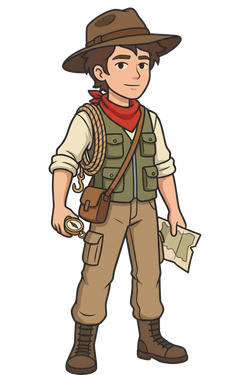
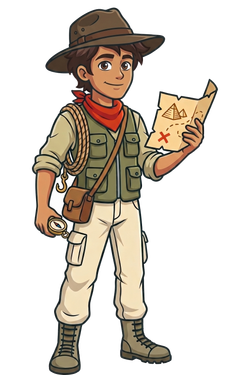
fix(art): the explorer's portraits are the original artwork, so he matches his own walk sprites
Claude-Session: https://claude.ai/code/session_012xEDDaoPZfWQpQUSbuj7W8

diff --git a/scripts/repaintPrompt.ts b/scripts/repaintPrompt.ts
@@ -34,6 +34,10 @@ type Entry = {
   /** Where the finished file goes, and what turns the download into it. */
   out: string
   importedBy: string
+  /** Already on disk. Off the owed list, still fetchable by key — a landed file can need rolling again. */
+  drawn?: boolean
+  /** The generator return this was imported from, kept because it cannot be generated again. */
+  master?: string
 }
 
 /** Every `### n. \`tier/kind\` — title` block, with its attachment list and its first fenced block. */
@@ -76,11 +80,17 @@ const quoted = (block: string): string =>
  *
  * **Attachments are the anchor plus the last file in the set that exists**, which is the loop the document
  * asks for: one at a time, and the accepted file becomes the reference for the next.
+ *
+ * An entry whose file exists is marked `drawn` rather than dropped: it leaves the owed list, and
+ * `yarn repaint <key>` still hands it over. The explorer's three came back off-palette and had to be rolled
+ * again, which is not a state a queue should have no way to express.
  */
 const parseCharacters = (md: string): Entry[] => {
   const sections = md.split(/^## /m)
   const section = (n: string) => sections.find(s => s.startsWith(n)) ?? ""
   const preamble = quoted(section("0."))
+  // The measured fills, so "cream cargo trousers" stops being the generator's to interpret.
+  const palette = quoted(section("1.").split(/^### /m)[0])
   const ghostPreamble = quoted(section("2.").split(/^### /m)[0]).replace(/^\*\*Ghost preamble\*\*[^:]*:\s*/, "")
   const groups = [
     { group: "portrait", body: section("1.") },
@@ -104,22 +114,24 @@ const parseCharacters = (md: string): Entry[] => {
         prompt: quoted(block)
           .replace(/\[preamble \+ ghost preamble\]\s*/, `${preamble}\n\n${ghostPreamble}\n\n`)
           .replace(/\[preamble\]\s*/, `${preamble}\n\n`)
+          .replace(/\[palette\]\s*/, palette ? `${palette}\n\n` : "")
           .replace(/\*\*/g, "")
           .trim(),
         out,
-        importedBy: `yarn import-portrait <file> --name=${file}`,
+        master: join("art/masters/characters", `${file}.jpeg`),
+        importedBy: `yarn import-portrait art/masters/characters/${file}.jpeg --name=${file}`,
       })
     }
   let reference: string | undefined
-  const owed: Entry[] = []
+  const withReferences: Entry[] = []
   for (const entry of drawn) {
-    if (existsSync(entry.out)) {
-      reference = entry.out
-      continue
-    }
-    owed.push({ ...entry, attachments: [ANCHOR, ...(reference ? [reference] : [])] })
+    const landed = existsSync(entry.out)
+    withReferences.push({ ...entry, attachments: [ANCHOR, ...(reference ? [reference] : [])], drawn: landed })
+    // Hand over the MASTER where there is one: the sprite is 250px wide, and a reference that small is
+    // most of the detail gone before the generator sees it (art/README.md).
+    if (landed) reference = entry.master && existsSync(entry.master) ? entry.master : entry.out
   }
-  return owed
+  return withReferences
 }
 
 const entries = [...parse(readFileSync(QUEUE, "utf8")), ...parseCharacters(readFileSync(CHARACTERS, "utf8"))]
@@ -135,13 +147,14 @@ if (!wanted) {
   // for free, until the patron entries arrived: those are one section covering five ranks, because what
   // orders them is rooms rather than whose tomb they are. Working a rank at a time is how the ranks
   // actually get finished, and it is also how the material reference stays the same between pastes.
-  console.log(`${entries.length} prompts owed — \`yarn repaint <key>\` for one of:\n`)
+  const owed = entries.filter(e => !e.drawn)
+  console.log(`${owed.length} prompts owed — \`yarn repaint <key>\` for one of:\n`)
   const rank = (key: string) => {
     const at = TIERS.indexOf(key.split("/")[0])
     return at < 0 ? TIERS.length : at
   }
   let last = ""
-  for (const e of [...entries].sort((a, b) => rank(a.key) - rank(b.key))) {
+  for (const e of [...owed].sort((a, b) => rank(a.key) - rank(b.key))) {
     const tier = e.key.split("/")[0]
     if (tier !== last) console.log(`${last ? "\n" : ""}  ${tier}`)
     last = tier
@@ -174,7 +187,7 @@ if (!check) {
   execFileSync("pbcopy", { input: entry.prompt })
 }
 console.log(
-  `${entry.key} — ${
+  `${entry.key}${entry.drawn ? " (already drawn — this is a re-roll)" : ""} — ${
     check
       ? `${entry.prompt.split("\n").length} lines`
       : `prompt copied to the clipboard (${entry.prompt.split("\n").length} lines)`

diff --git a/docs/game-design/story/character-art-prompts.md b/docs/game-design/story/character-art-prompts.md
@@ -36,8 +36,11 @@ can give you — §3 cuts it out on the way in.
 
 ## 1. The explorer — conversation portraits
 
-The large artwork is full-body at high resolution; these are the 250px companions to `fez-250.png`, drawn
-to sit at the same scale beside it. **Match the existing explorer exactly**: olive-green utility vest with
+The neutral and grinning poses ARE the original character artwork, imported — `art/masters/characters/`
+holds both, and `yarn import-portrait` is the whole of the work. Only what the original does not have needs
+drawing, which today is the pointing pose and any later one.
+
+**Match the existing explorer exactly**: olive-green utility vest with
 four flap pockets, cream rolled-sleeve shirt, red neckerchief, wide brown felt bush hat, cream cargo
 trousers, laced tan boots, coiled rope and small brown satchel on a shoulder strap, brass compass.
 
@@ -46,22 +49,35 @@ add stubble, eyelashes, jewellery, makeup or a waist. A player of any descriptio
 themselves standing next to this person — the explorer is a character anybody is glad to be beside, not a
 portrait of one kind of person.
 
+**The palette is named, not described.** Measured off the original artwork, which is also what the walking
+sprites on the site map were drawn from — so these are the values already in the game, and a portrait that
+misses them is a second explorer. Three rolls attached that artwork as a reference and repainted the fills
+anyway: skin came back \`#f0b890\` against its \`#d89060\`, a fifth brighter and a third less saturated, and
+the cream trousers came back tan. A generator copies a number and interprets a word. \`[palette]\` in the
+prompts below is substituted with this:
+
+> Use these exact flat colours: skin #d89060, shaded skin #c07850. Shirt and cargo trousers both cream
+> #f0e0b8. Utility vest olive #807850. Bush hat brown #685038. Neckerchief red #c83818, its shadow #a82020.
+> Boots khaki #988868. Satchel and belt leather #a88058. Hair dark brown #503028. Do not lighten,
+> desaturate or reinterpret any of these — they are the colours of the character as he already appears
+> elsewhere in the game.
+
 ### `explorer-250.png` — neutral, talking
 
-> [preamble] A young explorer in a wide brown bush hat and olive utility vest, standing relaxed and facing
+> [preamble] [palette] A young explorer in a wide brown bush hat and olive utility vest, standing relaxed and facing
 > the viewer, one hand resting at their side and the other holding a folded map. Calm, dry, pleasant
 > expression — mouth closed or barely smiling, eyebrows level. Not grinning. Reference the supplied
 > explorer artwork for every item of clothing and equipment.
 
 ### `grin-explorer-250.png` — the solve
 
-> [preamble] The same explorer, same clothing and equipment, now wearing dark sunglasses and grinning
+> [preamble] [palette] The same explorer, same clothing and equipment, now wearing dark sunglasses and grinning
 > broadly, head tilted very slightly. One thumb hooked in a vest pocket. Pleased rather than smug.
 > Reference the supplied explorer artwork.
 
 ### `point-explorer-250.png` — drawing attention
 
-> [preamble] The same explorer, same clothing and equipment, pointing upward and slightly off-camera with
+> [preamble] [palette] The same explorer, same clothing and equipment, pointing upward and slightly off-camera with
 > one index finger, looking where they point. Mouth open as if mid-sentence. Reference the supplied
 > explorer artwork.
 

diff --git a/art/README.md b/art/README.md
@@ -11,6 +11,7 @@ copies the game loads.
 art/masters/props/<tier>/<name>.webp   a prop's painted return, ~1334x2000
 art/masters/surfaces/<tier>-<slot>.webp  floor 2000x2000, wall-face 2000x240, threshold ~2000x900
 art/masters/tombWall/<tier>.webp       the tableau's whole-wall panel, 2000x2000
+art/masters/characters/<name>.jpeg     a conversation portrait's return, ~1686x2528
 art/rebuild.sh                 re-imports from the masters, with the flags each tile was imported with
 ```
 
